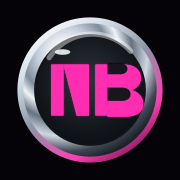
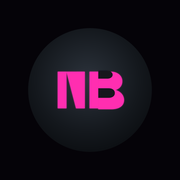
Rad-Walls Iconpack kompatibilität verbessert (hoffentlich)

diff --git a/sw.js b/sw.js
@@ -1,4 +1,4 @@
-const CACHE = "nightboard83-v16";
+const CACHE = "nightboard83-v17";
 const ASSETS = [
   "./",
   "./index.html",

diff --git a/README.md b/README.md
@@ -98,7 +98,7 @@ Tokens and the registered app credentials stay in `localStorage` on that browser
 
 ## Progressive Web App
 
-`manifest.webmanifest` and `sw.js` enable install-to-homescreen. Icons are round chrome discs meant to sit next to 1980s icon packs (e.g. Rad Pack). On Android, the maskable 512×512 asset is used for adaptive icons.
+`manifest.webmanifest` and `sw.js` enable install-to-homescreen. The `any` icons are a transparent neon-pink **NB** glyph so icon packs such as Rad Pack / Rad Walls can keep their chrome disc and place the logo in the well. The maskable 512×512 asset is a circular dark well with the same glyph (transparent corners, not a square) for Android adaptive icons.
 
 Install from the browser’s install prompt (Chrome: the install icon in the address bar, or the menu). On iOS Safari: Share → Add to Home Screen.
 
